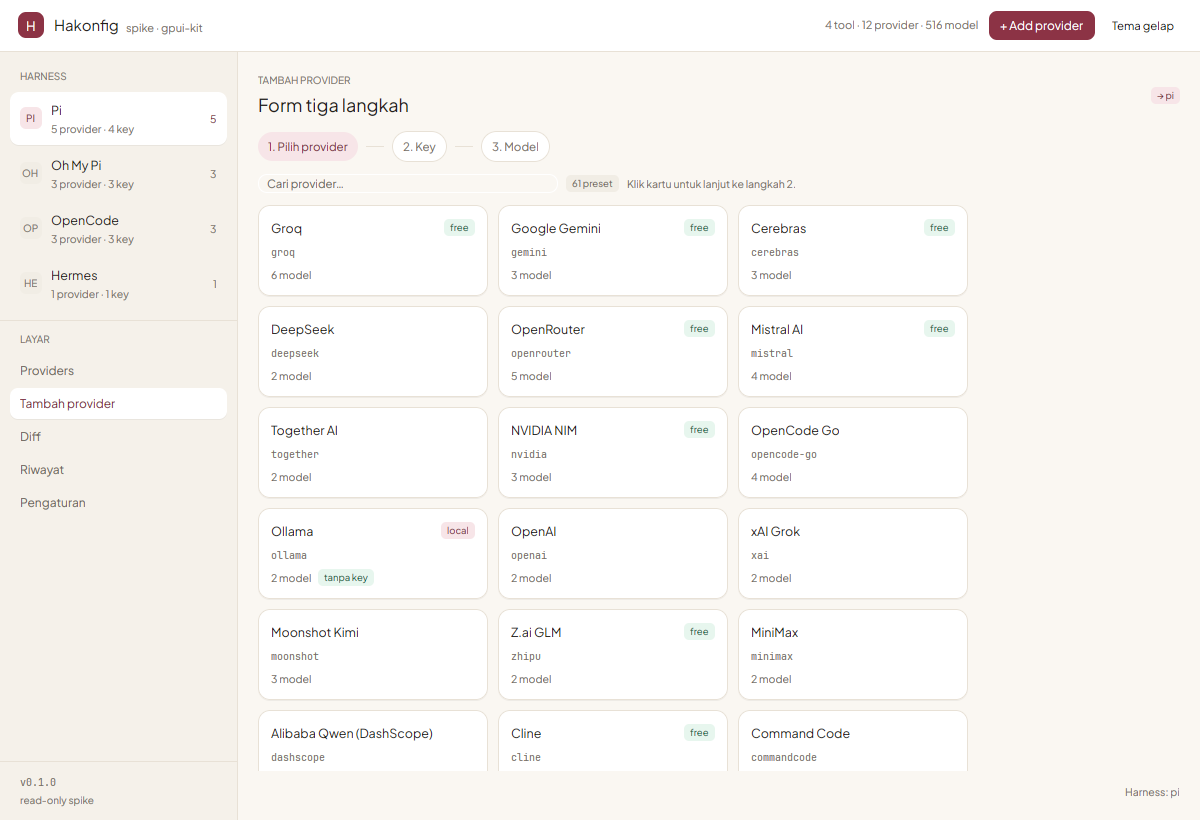
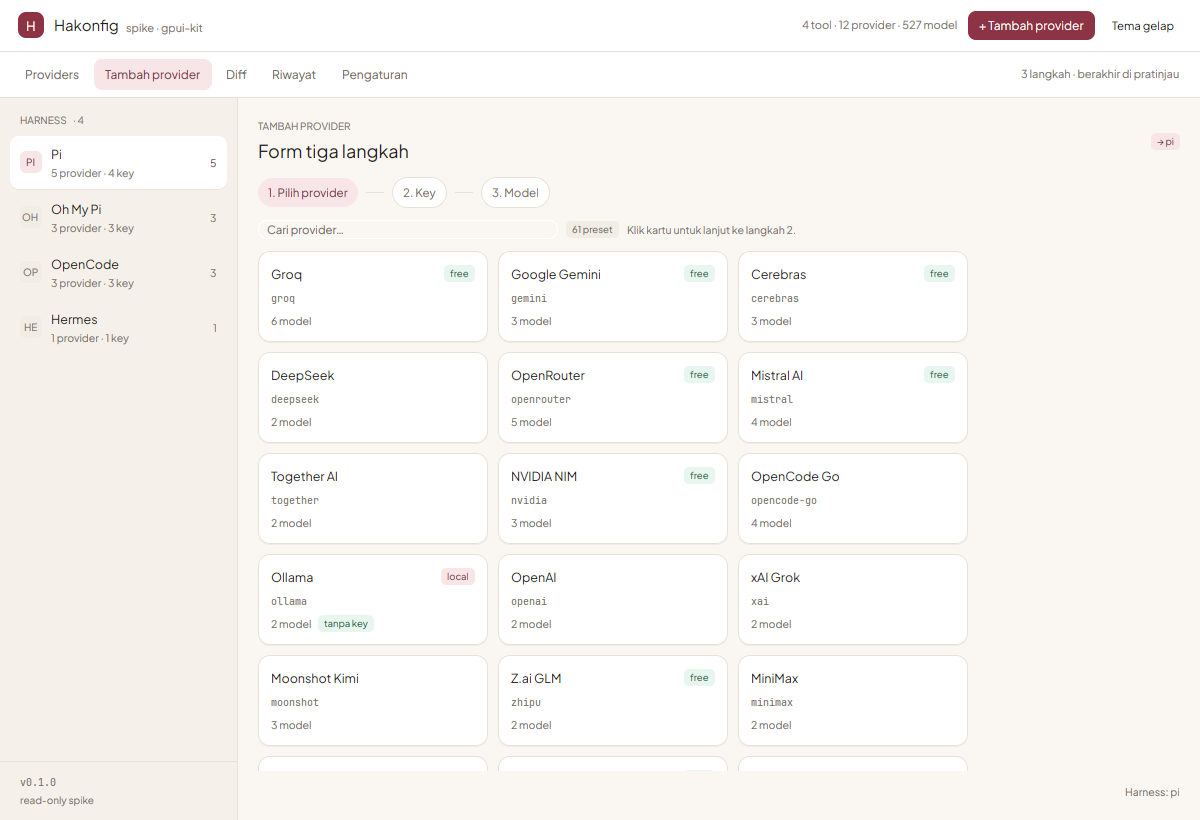
fix(spike): pisahkan navigasi layar dari daftar harness
Sidebar sebelumnya memuat dua daftar sekaligus: harness di atas, menu layar
(LAYAR) di bawah. Dua sumbu navigasi yang bertumpuk di kolom yang sama memang
membingungkan.

- Tab layar pindah ke bar horizontal di bawah top bar: Providers, Tambah
  provider, Diff, Riwayat, Pengaturan + petunjuk singkat di kanan.
- Sidebar kini khusus harness, dengan header 'HARNESS · 4'.
- Tombol '+ Tambah provider' di top bar langsung pindah layar (dialog
  placeholder dibuang).

Bonus perbaikan dari verifikasi: panel hasil 'Pratinjau diff' dulu ter-render di
dalam area scroll sehingga tombolnya terasa tidak melakukan apa pun. Panel
sekarang dipin di bawah daftar model.

shot.sh diperbarui ke koordinat tab baru; screenshot docs/ diambil ulang.

diff --git a/spike/gpui-kit/src/app.rs b/spike/gpui-kit/src/app.rs
@@ -39,6 +39,38 @@ pub enum Nav {
     Settings,
 }
 
+impl Nav {
+    pub const ALL: [Nav; 5] = [
+        Nav::Providers,
+        Nav::Add,
+        Nav::Diff,
+        Nav::History,
+        Nav::Settings,
+    ];
+
+    /// Label tab. Layar dan harness sengaja dipisah: tab di atas, harness di
+    /// sidebar kiri — dua daftar di kolom yang sama bikin bingung.
+    pub fn label(self) -> &'static str {
+        match self {
+            Nav::Providers => "Providers",
+            Nav::Add => "Tambah provider",
+            Nav::Diff => "Diff",
+            Nav::History => "Riwayat",
+            Nav::Settings => "Pengaturan",
+        }
+    }
+
+    fn slug(self) -> &'static str {
+        match self {
+            Nav::Providers => "providers",
+            Nav::Add => "add",
+            Nav::Diff => "diff",
+            Nav::History => "history",
+            Nav::Settings => "settings",
+        }
+    }
+}
+
 pub struct App {
     pub entries: Vec<HarnessEntry>,
     pub selected: usize,
@@ -281,6 +313,7 @@ impl Render for App {
             .bg(p.canvas)
             .text_color(p.ink)
             .child(self.topbar(&p, cx))
+            .child(self.nav_tabs(&p, cx))
             .child(
                 h_flex()
                     .flex_1()
@@ -293,6 +326,48 @@ impl Render for App {
 }
 
 impl App {
+    /// Navigasi layar: satu baris tab di bawah top bar, bukan di sidebar.
+    /// Sidebar dipakai khusus untuk memilih harness.
+    fn nav_tabs(&self, p: &Palette, cx: &mut Context<Self>) -> impl IntoElement {
+        let mut bar = h_flex()
+            .flex_shrink_0()
+            .px(px(14.))
+            .py(px(7.))
+            .gap(px(3.))
+            .items_center()
+            .bg(p.surface)
+            .border_b_1()
+            .border_color(p.line);
+        for nav in Nav::ALL {
+            let active = self.nav == nav;
+            bar = bar.child(
+                h_flex()
+                    .id(ElementId::Name(format!("tab-{}", nav.slug()).into()))
+                    .px(px(11.))
+                    .py(px(6.))
+                    .rounded(px(8.))
+                    .text_size(px(12.))
+                    .items_center()
+                    .when(active, |s| {
+                        s.bg(p.brand_soft)
+                            .text_color(p.brand_text)
+                            .font_weight(FontWeight::SEMIBOLD)
+                    })
+                    .when(!active, |s| {
+                        s.text_color(p.ink_secondary).hover(|s| s.bg(p.canvas))
+                    })
+                    .child(nav.label())
+                    .on_click(cx.listener(move |this, _, _, cx| this.set_nav(nav, cx))),
+            );
+        }
+        bar.child(div().flex_1()).child(
+            div()
+                .pr(px(6.))
+                .text_size(px(11.))
+                .text_color(p.ink_muted)
+                .child(active_hint(self.nav)),
+        )
+    }
     fn topbar(&self, p: &Palette, cx: &mut Context<Self>) -> impl IntoElement {
         h_flex()
             .flex_shrink_0()
@@ -346,23 +421,8 @@ impl App {
                     )),
             )
             .child(
-                palette::brand_button(p, "add", "+ Add provider").on_click(cx.listener(
-                    |this, _, window, cx| {
-                        let p = palette::palette(cx);
-                        this.nav = Nav::Add;
-                        window.open_dialog(cx, move |dialog, _, _| {
-                            dialog.title("Form provider belum diporting").child(
-                                div()
-                                    .text_size(px(12.5))
-                                    .text_color(p.ink_secondary)
-                                    .child(
-                                        "Layar Tambah provider sudah ada di sidebar, isinya masih \
-                                         placeholder. Spike ini belum menulis file apa pun.",
-                                    ),
-                            )
-                        });
-                        cx.notify();
-                    },
+                palette::brand_button(p, "add", "+ Tambah provider").on_click(cx.listener(
+                    |this, _, _, cx| this.set_nav(Nav::Add, cx),
                 )),
             )
             .child(
@@ -440,23 +500,6 @@ impl App {
             );
         }
 
-        let nav_row = |id: &'static str, label: &'static str, target: Nav, p: Palette| {
-            let active = self.nav == target;
-            h_flex()
-                .id(id)
-                .px(px(10.))
-                .py(px(6.))
-                .rounded(px(8.))
-                .text_size(px(12.))
-                .when(active, |s| {
-                    s.bg(p.surface).text_color(p.brand_text).shadow_2xs()
-                })
-                .when(!active, |s| {
-                    s.text_color(p.ink_secondary).hover(|s| s.bg(p.canvas))
-                })
-                .when(active, |s| s.font_weight(FontWeight::SEMIBOLD))
-                .child(label)
-        };
 
         v_flex()
             .w(px(238.))
@@ -465,58 +508,27 @@ impl App {
             .border_r_1()
             .border_color(p.line)
             .child(
-                div()
+                h_flex()
                     .px(px(20.))
-                    .pt(px(16.))
+                    .pt(px(14.))
                     .pb(px(8.))
-                    .text_size(px(10.))
-                    .font_weight(FontWeight::SEMIBOLD)
-                    .text_color(p.ink_muted)
-                    .child("HARNESS"),
-            )
-            .child(items)
-            .child(
-                v_flex()
-                    .gap(px(2.))
-                    .px(px(10.))
-                    .py(px(10.))
-                    .border_t_1()
-                    .border_color(p.line)
+                    .gap(px(6.))
+                    .items_baseline()
                     .child(
                         div()
-                            .px(px(10.))
-                            .pb(px(6.))
                             .text_size(px(10.))
                             .font_weight(FontWeight::SEMIBOLD)
                             .text_color(p.ink_muted)
-                            .child("LAYAR"),
+                            .child("HARNESS"),
                     )
                     .child(
-                        nav_row("nav-providers", "Providers", Nav::Providers, *p)
-                            .on_click(cx.listener(|this, _, _, cx| {
-                                this.set_nav(Nav::Providers, cx)
-                            })),
-                    )
-                    .child(
-                        nav_row("nav-add", "Tambah provider", Nav::Add, *p).on_click(
-                            cx.listener(|this, _, _, cx| this.set_nav(Nav::Add, cx)),
-                        ),
-                    )
-                    .child(
-                        nav_row("nav-diff", "Diff", Nav::Diff, *p)
-                            .on_click(cx.listener(|this, _, _, cx| this.set_nav(Nav::Diff, cx))),
-                    )
-                    .child(
-                        nav_row("nav-history", "Riwayat", Nav::History, *p).on_click(
-                            cx.listener(|this, _, _, cx| this.set_nav(Nav::History, cx)),
-                        ),
-                    )
-                    .child(
-                        nav_row("nav-settings", "Pengaturan", Nav::Settings, *p).on_click(
-                            cx.listener(|this, _, _, cx| this.set_nav(Nav::Settings, cx)),
-                        ),
+                        div()
+                            .text_size(px(10.))
+                            .text_color(p.ink_muted)
+                            .child(format!("· {}", self.entries.len())),
                     ),
             )
+            .child(items)
             .child(div().flex_1())
             .child(
                 v_flex()
@@ -539,5 +551,16 @@ impl App {
                             .child("read-only spike"),
                     ),
             )
+    }
+}
+
+/// Petunjuk singkat di kanan tab: apa yang bisa dilakukan di layar itu.
+fn active_hint(nav: Nav) -> &'static str {
+    match nav {
+        Nav::Providers => "klik … pada kartu untuk aksi",
+        Nav::Add => "3 langkah · berakhir di pratinjau",
+        Nav::Diff => "read-only · Apply nonaktif",
+        Nav::History => "dialog restore tidak menulis apa pun",
+        Nav::Settings => "tema & bahasa tersimpan di sesi",
     }
 }

diff --git a/spike/gpui-kit/src/views/add.rs b/spike/gpui-kit/src/views/add.rs
@@ -909,9 +909,6 @@ impl AddView {
                             .child("Spike read-only — tidak ada file yang ditulis."),
                     ),
             );
-        if let Some(res) = &self.preview {
-            col = col.child(self.preview_panel(p, res));
-        }
         col
     }
 
@@ -1159,11 +1156,31 @@ impl Render for AddView {
             .child(self.stepper(&p, cx))
             .child(
                 v_flex()
-                    .id("add-scroll")
                     .flex_1()
                     .min_h_0()
-                    .overflow_y_scroll()
-                    .child(body),
+                    .min_w_0()
+                    .child(
+                        v_flex()
+                            .id("add-scroll")
+                            .flex_1()
+                            .min_h_0()
+                            .overflow_y_scroll()
+                            .child(body),
+                    )
+                    // Hasil pratinjau dipin di bawah: sebelumnya ia ikut
+                    // ter-scroll sehingga tombol "Pratinjau diff" terasa
+                    // tidak melakukan apa pun.
+                    .when_some(
+                        self.preview.as_ref().filter(|_| self.step == 3),
+                        |s, res| {
+                            s.child(
+                                div()
+                                    .flex_shrink_0()
+                                    .pt(px(6.))
+                                    .child(self.preview_panel(&p, res)),
+                            )
+                        },
+                    ),
             )
             .child(self.nav(&p, meta.is_some(), cx))
     }

diff --git a/spike/gpui-kit/PROGRESS.md b/spike/gpui-kit/PROGRESS.md
@@ -59,6 +59,20 @@ xdotool search --name "spike gpui-kit" | tail -1 | xargs -I{} import -window {} 
 
 ## Log
 
+### 2026-11-23 02:10 · repo · navigasi dipisah, panel pratinjau dipin
+- Keluhan wajar: menu dan daftar harness sama-sama di kiri. Sekarang **tab layar
+  pindah ke bar atas** (Providers · Tambah provider · Diff · Riwayat ·
+  Pengaturan, plus petunjuk singkat di kanan); **sidebar khusus harness** dengan
+  header "HARNESS · n".
+- Ditemukan saat verifikasi: tombol "Pratinjau diff" terasa mati karena panel
+  hasilnya ikut ter-render di dalam area scroll dan berada di bawah lipatan.
+  Panel sekarang dipin di bawah daftar model (`when_some` + `flex_shrink_0`),
+  jadi hasil selalu kelihatan.
+- Verifikasi pakai piksel (bukan mata): tab aktif bergeser sesuai klik, isi
+  layar berganti 5–11 ribu piksel per klik, panel pratinjau memunculkan blok
+  peringatan `#fff1e0`, sidebar tidak lagi punya baris menu (hanya 4 harness +
+  footer versi).
+
 ### 2026-11-23 01:15 · repo · angka final (CPU idle, release)
 - Frame pertama berisi data **236 ms**, baca 4 config **29 ms**, jendela ter-map
   **17–19 ms**, RSS **128 MB**, binary **59 MB** (46 MB strip).

diff --git a/spike/gpui-kit/README.md b/spike/gpui-kit/README.md
@@ -13,7 +13,8 @@ Tujuannya menjawab dua pertanyaan dengan bukti, bukan opini:
 |---|---|
 | ![Providers](docs/ui-light.png) | ![Tema gelap](docs/ui-dark.png) |
 | ![Diff](docs/ui-diff.png) | ![Pengaturan](docs/ui-settings.png) |
-| ![Tambah 1](docs/ui-add-1.png) | ![Tambah 3](docs/ui-add-3.png) |
+| ![Tambah 1](docs/ui-add-1.png) | ![Tambah 2](docs/ui-add-2.png) |
+| ![Tambah 3](docs/ui-add-3.png) | ![Pratinjau](docs/ui-add-4.png) |
 | ![Riwayat](docs/ui-history.png) | ![Pengaturan gelap](docs/ui-settings-dark.png) |
 
 ## Jalankan
@@ -63,7 +64,7 @@ Rincian 38 butir + status: [`FEATURES.md`](FEATURES.md). Log kerja: [`PROGRESS.m
 
 ```
 src/main.rs      bootstrap: font, tema, jendela
-src/app.rs       state + shell (top bar, sidebar, navigasi)
+src/app.rs       state + shell (top bar, tab layar, sidebar harness)
 src/data.rs      pembacaan harness lewat hakonfig_core::api
 src/net.rs       pembungkus tes koneksi (reqwest butuh reaktor tokio)
 src/palette.rs   token warna dari web/styles.src.css + tema gpui-kit
